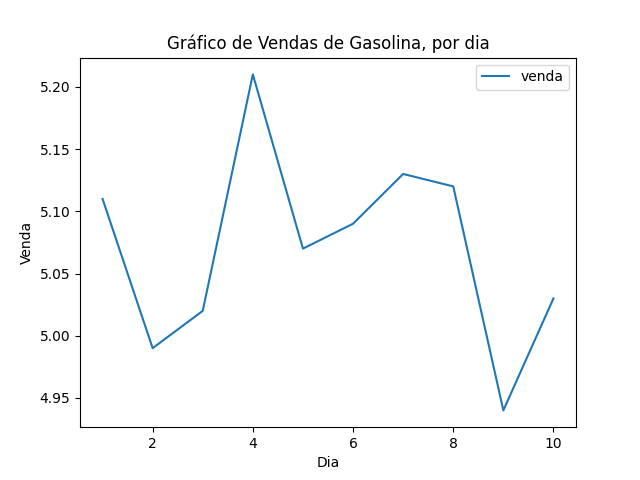
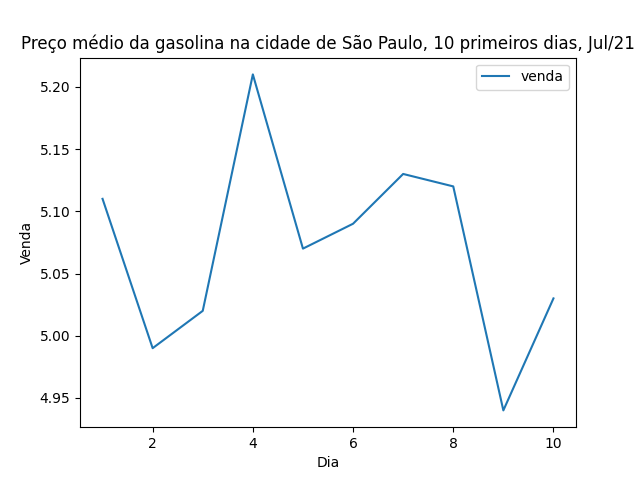
Criação da documentação usando README

Changed region(s): [[0.0312, 0.0625, 1.0, 0.125]]

diff --git a/modulo_19/gasolina.py b/modulo_19/gasolina.py
@@ -2,7 +2,7 @@
 import pandas as pd
 dado = pd.read_csv ('gasolina.csv')
 
-grafico = dado.plot.line(x='dia', y='venda', xlabel='Dia', ylabel='Venda', title='Gráfico de Vendas de Gasolina, por dia')
+grafico = dado.plot.line(x='dia', y='venda', xlabel='Dia', ylabel='Venda', title='Preço médio da gasolina na cidade de São Paulo, 10 primeiros dias, Jul/21')
 
 figura = grafico.get_figure()
 figura.savefig('grafico_gasolina.png')

diff --git a/modulo_19/README.md b/modulo_19/README.md
@@ -1,0 +1,3 @@
+# ANÁLISE DE DADOS usando git
+### Dados de Venda de gasolina 
+### 
